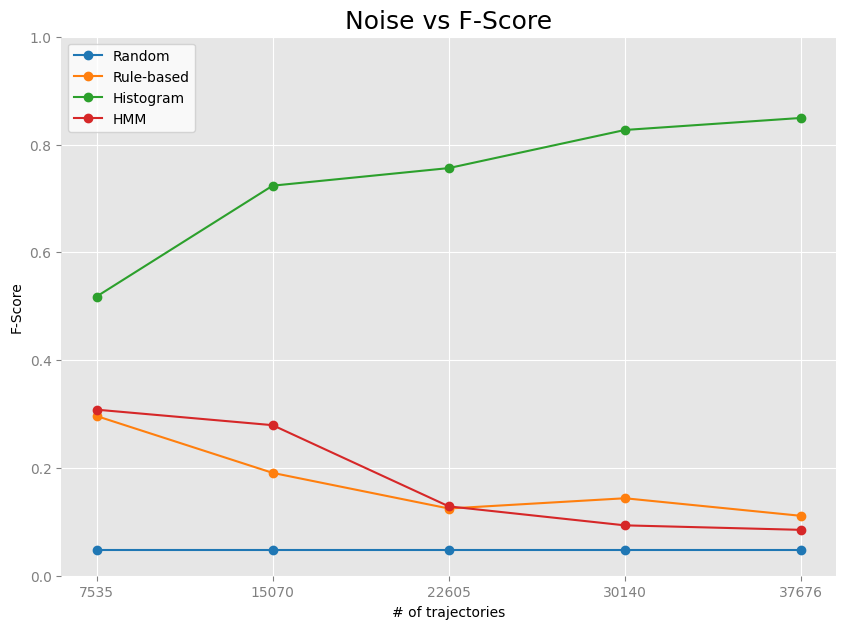
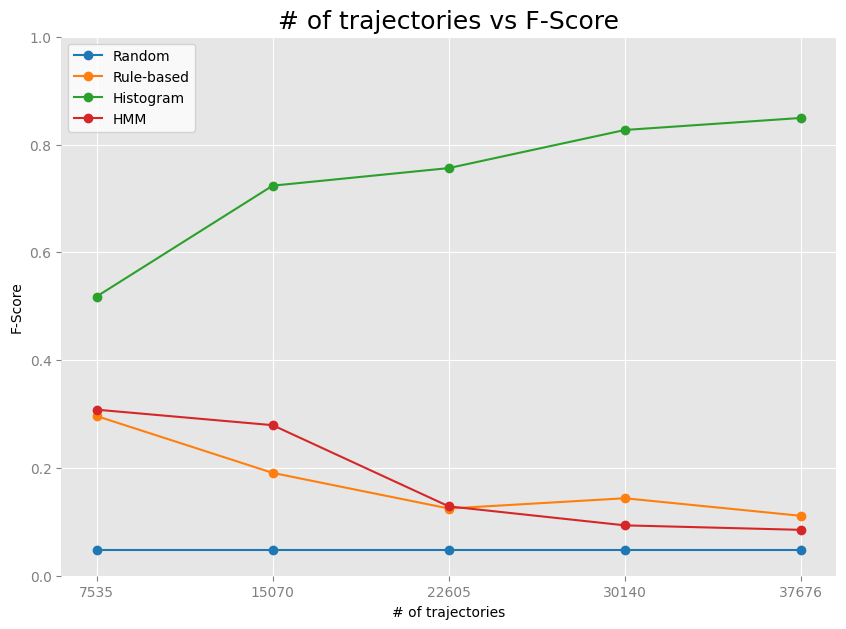
minor updates to results

Changed region(s): [[0.3381, 0.0, 0.7376, 0.0604]]

diff --git a/ChangeDetection/experiment_scripts/sparsity_experiment.py b/ChangeDetection/experiment_scripts/sparsity_experiment.py
@@ -28,58 +28,71 @@ if __name__ == '__main__':
 
     args = parser.parse_args()
 
-    # Run for each seed
-    for seed in args.seeds:
-        # Set seed for random libraries
-        np.random.seed(seed)
-        random.seed(seed)
+    # # Run for each seed
+    # for seed in args.seeds:
+    #     # Set seed for random libraries
+    #     np.random.seed(seed)
+    #     random.seed(seed)
 
-        # Setup dataset just to get total number of trajectories
-        dataset = SHDataset(noise=args.noise, dataset_dir=args.dataset_dir, noise_config=args.noise_config, split_threshold=args.split_threshold)
-        G1,T1,G2,T2 = dataset.read_snapshots(args.map_index, bbox=tuple(args.bbox))
-        total_t2 = len(T2['T'])
+    #     # Setup dataset just to get total number of trajectories
+    #     dataset = SHDataset(noise=args.noise, dataset_dir=args.dataset_dir, noise_config=args.noise_config, split_threshold=args.split_threshold)
+    #     G1,T1,G2,T2 = dataset.read_snapshots(args.map_index, bbox=tuple(args.bbox))
+    #     total_t2 = len(T2['T'])
 
-        # Get the intervals/steps for which number of trajectories to run per experiment
-        if args.max_trajectories > total_t2:
-            raise ValueError(f'--max_trajectories argument set to {args.max_trajectories}, which is larger than the total trajectories in specified bbox: {total_t2}')
-        if args.max_trajectories == 0:
-            n_traj_steps = np.linspace(0, total_t2, args.num_steps+1, dtype=np.int64)[1:]
-        else:
-            n_traj_steps = np.linspace(0, args.max_trajectories, args.num_steps+1, dtype=np.int64)[1:]
+    #     # Get the intervals/steps for which number of trajectories to run per experiment
+    #     if args.max_trajectories > total_t2:
+    #         raise ValueError(f'--max_trajectories argument set to {args.max_trajectories}, which is larger than the total trajectories in specified bbox: {total_t2}')
+    #     if args.max_trajectories == 0:
+    #         n_traj_steps = np.linspace(0, total_t2, args.num_steps+1, dtype=np.int64)[1:]
+    #     else:
+    #         n_traj_steps = np.linspace(0, args.max_trajectories, args.num_steps+1, dtype=np.int64)[1:]
 
-        # Run experiments
-        starttime_experiments = datetime.now()
-        for i, n_traj in enumerate(n_traj_steps):
-            starttime = datetime.now()
-            print(f'Starting Experiment {i+1} w/ {n_traj}# of trajectories - Start Time: {starttime.strftime("%H:%M:%S")}')
-            if args.noise:
-                os.system(f"python -m experiment_scripts.exp_all_methods --exp_name {args.exp_name}_seed{seed}_e#{i}_{n_traj}#_t --results_dir results_{args.exp_name}_seed{seed} --dataset_dir {args.dataset_dir} \
-                            --num_cpu_hmm {args.num_cpu_hmm} --map_index {args.map_index} --bbox {args.bbox[0]} {args.bbox[1]} {args.bbox[2]} {args.bbox[3]} --n_traj {n_traj} \
-                                --split_threshold {args.split_threshold} --seed {seed} --noise --noise_config {args.noise_config}")
-            else:
-                os.system(f"python -m experiment_scripts.exp_all_methods --exp_name {args.exp_name}_seed{seed}_e#{i}_{n_traj}#_t --results_dir results_{args.exp_name}_seed{seed} --dataset_dir {args.dataset_dir} \
-                            --num_cpu_hmm {args.num_cpu_hmm} --map_index {args.map_index} --bbox {args.bbox[0]} {args.bbox[1]} {args.bbox[2]} {args.bbox[3]} --n_traj {n_traj} \
-                                --split_threshold {args.split_threshold} --seed {seed}")
-            stoptime = datetime.now()
-            delta = stoptime - starttime
-            print(f'Experiment {i+1} Finished w/ {n_traj}# of trajectories - End Time: {stoptime.strftime("%H:%M:%S")}, Duration: {str(delta)}')
+    #     # Run experiments
+    #     starttime_experiments = datetime.now()
+    #     for i, n_traj in enumerate(n_traj_steps):
+    #         starttime = datetime.now()
+    #         print(f'Starting Experiment {i+1} w/ {n_traj}# of trajectories - Start Time: {starttime.strftime("%H:%M:%S")}')
+    #         if args.noise:
+    #             os.system(f"python -m experiment_scripts.exp_all_methods --exp_name {args.exp_name}_seed{seed}_e#{i}_{n_traj}#_t --results_dir results_{args.exp_name}_seed{seed} --dataset_dir {args.dataset_dir} \
+    #                         --num_cpu_hmm {args.num_cpu_hmm} --map_index {args.map_index} --bbox {args.bbox[0]} {args.bbox[1]} {args.bbox[2]} {args.bbox[3]} --n_traj {n_traj} \
+    #                             --split_threshold {args.split_threshold} --seed {seed} --noise --noise_config {args.noise_config}")
+    #         else:
+    #             os.system(f"python -m experiment_scripts.exp_all_methods --exp_name {args.exp_name}_seed{seed}_e#{i}_{n_traj}#_t --results_dir results_{args.exp_name}_seed{seed} --dataset_dir {args.dataset_dir} \
+    #                         --num_cpu_hmm {args.num_cpu_hmm} --map_index {args.map_index} --bbox {args.bbox[0]} {args.bbox[1]} {args.bbox[2]} {args.bbox[3]} --n_traj {n_traj} \
+    #                             --split_threshold {args.split_threshold} --seed {seed}")
+    #         stoptime = datetime.now()
+    #         delta = stoptime - starttime
+    #         print(f'Experiment {i+1} Finished w/ {n_traj}# of trajectories - End Time: {stoptime.strftime("%H:%M:%S")}, Duration: {str(delta)}')
 
-        delta = stoptime - starttime_experiments
-        print(f'All experiments finished at {stoptime.strftime("%H:%M:%S")}. Total duration: {str(delta)}')
+    #     delta = stoptime - starttime_experiments
+    #     print(f'All experiments finished at {stoptime.strftime("%H:%M:%S")}. Total duration: {str(delta)}')
 
-        # Save plots
-        x_labels = [f'{n_traj}' for n_traj in n_traj_steps]
-        x_vs_fscore(x='# of trajectories', labels=x_labels, xlabel='# of traces',
-                    folder=f'./experimental_results/results_{args.exp_name}_seed{seed}/', 
-                    savename=f'./experimental_results/results_{args.exp_name}_seed{seed}/#traj_vs_fscore')
-        plt.close()
-        x_vs_prauc(x='# of trajectories', labels=x_labels, xlabel='# of traces',
-                    folder=f'./experimental_results/results_{args.exp_name}_seed{seed}/', 
-                    savename=f'./experimental_results/results_{args.exp_name}_seed{seed}/#traj_vs_prauc')
+    #     # Save plots
+    #     x_labels = [f'{n_traj}' for n_traj in n_traj_steps]
+    #     x_vs_fscore(x='# of trajectories', labels=x_labels, xlabel='# of traces',
+    #                 folder=f'./experimental_results/results_{args.exp_name}_seed{seed}/', 
+    #                 savename=f'./experimental_results/results_{args.exp_name}_seed{seed}/#traj_vs_fscore')
+    #     plt.close()
+    #     x_vs_prauc(x='# of trajectories', labels=x_labels, xlabel='# of traces',
+    #                 folder=f'./experimental_results/results_{args.exp_name}_seed{seed}/', 
+    #                 savename=f'./experimental_results/results_{args.exp_name}_seed{seed}/#traj_vs_prauc')
 
-        # Save GIF of how the trajectories change
-        save_gif(folder=f'./experimental_results/results_{args.exp_name}_seed{seed}/',
-                    img_name='G1T2', savename=f'./experimental_results/results_{args.exp_name}_seed{seed}/G1T2')
+    #     # Save GIF of how the trajectories change
+    #     save_gif(folder=f'./experimental_results/results_{args.exp_name}_seed{seed}/',
+    #                 img_name='G1T2', savename=f'./experimental_results/results_{args.exp_name}_seed{seed}/G1T2')
 
+    # Setup dataset just to get total number of trajectories
+    dataset = SHDataset(noise=args.noise, dataset_dir=args.dataset_dir, noise_config=args.noise_config, split_threshold=args.split_threshold)
+    G1,T1,G2,T2 = dataset.read_snapshots(args.map_index, bbox=tuple(args.bbox))
+    total_t2 = len(T2['T'])
+
+    # Get the intervals/steps for which number of trajectories to run per experiment
+    if args.max_trajectories > total_t2:
+        raise ValueError(f'--max_trajectories argument set to {args.max_trajectories}, which is larger than the total trajectories in specified bbox: {total_t2}')
+    if args.max_trajectories == 0:
+        n_traj_steps = np.linspace(0, total_t2, args.num_steps+1, dtype=np.int64)[1:]
+    else:
+        n_traj_steps = np.linspace(0, args.max_trajectories, args.num_steps+1, dtype=np.int64)[1:]
+    x_labels = [f'{n_traj}' for n_traj in n_traj_steps]
     # Average results from different seeds and plot in 'figures' folder
-    plot_results(folder_prefix=f'results_{args.exp_name}_seed', x='# of traces', xlabels=x_labels)
+    plot_results(folder_prefix=f'results_{args.exp_name}_seed', x='Sparsity', xlabels=x_labels, xlabel='# of trajectories')

diff --git a/ChangeDetection/experiment_scripts/tfreq_experiment.py b/ChangeDetection/experiment_scripts/tfreq_experiment.py
@@ -40,37 +40,37 @@ if __name__ == '__main__':
         resample_traj_steps = np.arange(1,(args.steps*args.step_size)+1, args.step_size)
 
         # Run experiments
-        starttime_experiments = datetime.now()
-        for i, resample_everyn in enumerate(resample_traj_steps):
-            starttime = datetime.now()
-            print(f'Starting Experiment {i+1} Resampling trajectories every {resample_everyn} timed points - Start Time: {starttime.strftime("%H:%M:%S")}')
-            if args.noise:
-                os.system(f"python -m experiment_scripts.exp_all_methods --exp_name {args.exp_name}_seed{seed}_resample_step{resample_everyn} --results_dir results_{args.exp_name}_seed{seed} --dataset_dir {args.dataset_dir} \
-                            --num_cpu_hmm {args.num_cpu_hmm} --map_index {args.map_index} --bbox {args.bbox[0]} {args.bbox[1]} {args.bbox[2]} {args.bbox[3]} --n_traj {args.n_traj} \
-                                --split_threshold {args.split_threshold} --seed {seed} --resample_everyn_t {resample_everyn} --noise --noise_config {args.noise_config}")
-            else:
-                os.system(f"python -m experiment_scripts.exp_all_methods --exp_name {args.exp_name}_seed{seed}_resample_step{resample_everyn} --results_dir results_{args.exp_name}_seed{seed} --dataset_dir {args.dataset_dir} \
-                            --num_cpu_hmm {args.num_cpu_hmm} --map_index {args.map_index} --bbox {args.bbox[0]} {args.bbox[1]} {args.bbox[2]} {args.bbox[3]} --n_traj {args.n_traj} \
-                                --split_threshold {args.split_threshold} --seed {seed} --resample_everyn_t {resample_everyn}")
-            stoptime = datetime.now()
-            delta = stoptime - starttime
-            print(f'Experiment {i+1} Finished Resampling trajectories every {resample_everyn} timed points - End Time: {stoptime.strftime("%H:%M:%S")}, Duration: {str(delta)}')
+        # starttime_experiments = datetime.now()
+        # for i, resample_everyn in enumerate(resample_traj_steps):
+        #     starttime = datetime.now()
+        #     print(f'Starting Experiment {i+1} Resampling trajectories every {resample_everyn} timed points - Start Time: {starttime.strftime("%H:%M:%S")}')
+        #     if args.noise:
+        #         os.system(f"python -m experiment_scripts.exp_all_methods --exp_name {args.exp_name}_seed{seed}_resample_step{resample_everyn} --results_dir results_{args.exp_name}_seed{seed} --dataset_dir {args.dataset_dir} \
+        #                     --num_cpu_hmm {args.num_cpu_hmm} --map_index {args.map_index} --bbox {args.bbox[0]} {args.bbox[1]} {args.bbox[2]} {args.bbox[3]} --n_traj {args.n_traj} \
+        #                         --split_threshold {args.split_threshold} --seed {seed} --resample_everyn_t {resample_everyn} --noise --noise_config {args.noise_config}")
+        #     else:
+        #         os.system(f"python -m experiment_scripts.exp_all_methods --exp_name {args.exp_name}_seed{seed}_resample_step{resample_everyn} --results_dir results_{args.exp_name}_seed{seed} --dataset_dir {args.dataset_dir} \
+        #                     --num_cpu_hmm {args.num_cpu_hmm} --map_index {args.map_index} --bbox {args.bbox[0]} {args.bbox[1]} {args.bbox[2]} {args.bbox[3]} --n_traj {args.n_traj} \
+        #                         --split_threshold {args.split_threshold} --seed {seed} --resample_everyn_t {resample_everyn}")
+        #     stoptime = datetime.now()
+        #     delta = stoptime - starttime
+        #     print(f'Experiment {i+1} Finished Resampling trajectories every {resample_everyn} timed points - End Time: {stoptime.strftime("%H:%M:%S")}, Duration: {str(delta)}')
 
-        delta = stoptime - starttime_experiments
-        print(f'All experiments finished at {stoptime.strftime("%H:%M:%S")}. Total duration: {str(delta)}')
+        # delta = stoptime - starttime_experiments
+        # print(f'All experiments finished at {stoptime.strftime("%H:%M:%S")}. Total duration: {str(delta)}')
 
-        # Save plots
-        x_vs_fscore(x='Trace Frequency', labels=resample_traj_steps, xlabel='Trace Frequency',
-                    folder=f'./experimental_results/results_{args.exp_name}_seed{seed}/', 
-                    savename=f'./experimental_results/results_{args.exp_name}_seed{seed}/tfreq_vs_fscore')
-        plt.close()
-        x_vs_prauc(x='Trace Frequency', labels=resample_traj_steps, xlabel='Trace Frequency',
-                    folder=f'./experimental_results/results_{args.exp_name}_seed{seed}/', 
-                    savename=f'./experimental_results/results_{args.exp_name}_seed{seed}/tfreq_vs_prauc')
+        # # Save plots
+        # x_vs_fscore(x='Temporal Sparsity Interval', labels=resample_traj_steps, xlabel='Resampling Interval',
+        #             folder=f'./experimental_results/results_{args.exp_name}_seed{seed}/', 
+        #             savename=f'./experimental_results/results_{args.exp_name}_seed{seed}/tfreq_vs_fscore')
+        # plt.close()
+        # x_vs_prauc(x='Temporal Sparsity Interval', labels=resample_traj_steps, xlabel='Resampling Interval',
+        #             folder=f'./experimental_results/results_{args.exp_name}_seed{seed}/', 
+        #             savename=f'./experimental_results/results_{args.exp_name}_seed{seed}/tfreq_vs_prauc')
 
-        # Save GIF of how the trajectories change
-        save_gif(folder=f'./experimental_results/results_{args.exp_name}_seed{seed}/',
-                    img_name='G1T2', savename=f'./experimental_results/results_{args.exp_name}_seed{seed}/G1T2')
+        # # Save GIF of how the trajectories change
+        # save_gif(folder=f'./experimental_results/results_{args.exp_name}_seed{seed}/',
+        #             img_name='G1T2', savename=f'./experimental_results/results_{args.exp_name}_seed{seed}/G1T2')
 
     # Average results from different seeds and plot in 'figures' folder
-    plot_results(folder_prefix=f'results_{args.exp_name}_seed', x='Temporal Sparsity Interval', xlabels=x_labels)
+    plot_results(folder_prefix=f'results_{args.exp_name}_seed', x='Temporal Sparsity Interval', xlabels=resample_traj_steps, xlabel='Resampling Interval')

diff --git a/ChangeDetection/experiment_scripts/noise_experiment.py b/ChangeDetection/experiment_scripts/noise_experiment.py
@@ -85,11 +85,11 @@ if __name__ == '__main__':
         x_labels = [f"{round(noise_conf['meters'],1)}m"  for noise_conf in noise_in_meters]
         x_labels = ['No Noise', *x_labels]
 
-        x_vs_fscore(x='Noise', labels=x_labels,
+        x_vs_fscore(x='Noise', labels=x_labels, xlabel='Noise',
                     folder=f'./experimental_results/results_{args.exp_name}_seed{seed}/', 
                     savename=f'./experimental_results/results_{args.exp_name}_seed{seed}/noise_vs_fscore')
         plt.close()
-        x_vs_prauc(x='Noise', labels=x_labels,
+        x_vs_prauc(x='Noise', labels=x_labels, xlabel='Noise',
                     folder=f'./experimental_results/results_{args.exp_name}_seed{seed}/', 
                     savename=f'./experimental_results/results_{args.exp_name}_seed{seed}/noise_vs_prauc')
 
@@ -98,4 +98,4 @@ if __name__ == '__main__':
                     img_name='G1T2', savename=f'./experimental_results/results_{args.exp_name}_seed{seed}/G1T2')
     
     # Average results from different seeds and plot in 'figures' folder
-    plot_results(folder_prefix=f'results_{args.exp_name}_seed', x='Noise', xlabels=x_labels)
+    plot_results(folder_prefix=f'results_{args.exp_name}_seed', x='Noise', xlabels=x_labels, xlabel='Noise')

diff --git a/ChangeDetection/utils/metrics.py b/ChangeDetection/utils/metrics.py
@@ -549,11 +549,11 @@ def plot_results(folder_prefix, x, xlabels, xlabel):
     praucs_hmm = np.mean(praucs_hmm, axis=0)
 
     # Plot the results
-    x_vs_fscore(x='Noise', labels=xlabels, xlabel=xlabel,
+    x_vs_fscore(x=x, labels=xlabels, xlabel=xlabel,
                 folder=None, 
                 savename=f'./figures/{x.lower()}_vs_fscore',
                 preloaded_results=(fscores_random, fscores_rb, fscores_hist, fscores_hmm))
-    x_vs_prauc(x='Noise', labels=xlabels, xlabel=xlabel,
+    x_vs_prauc(x=x, labels=xlabels, xlabel=xlabel,
                 folder=None, 
                 savename=f'./figures/{x.lower()}_vs_prauc',
                 preloaded_results=(praucs_random, praucs_rb, praucs_hist, praucs_hmm))
